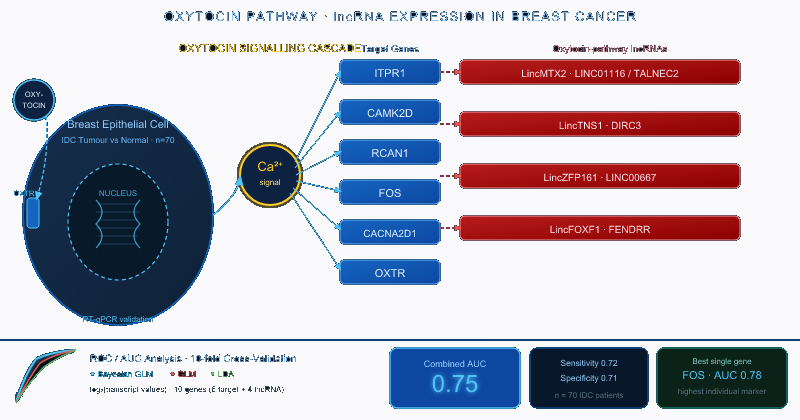
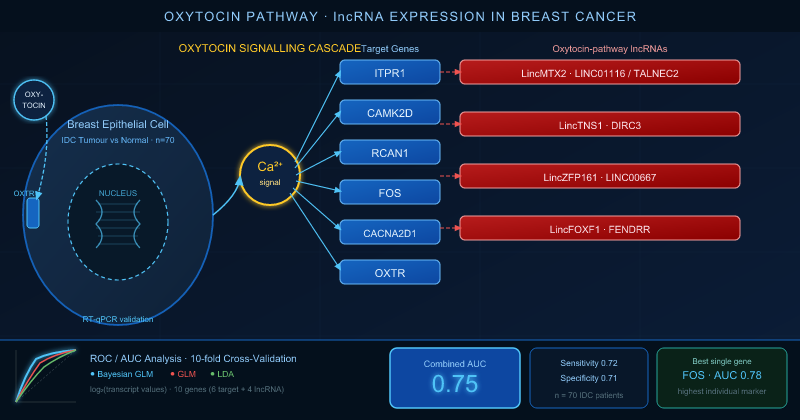
Revert oxytocin card to previous version (dark bg, object-fit cover)

diff --git a/index.html b/index.html
@@ -237,7 +237,7 @@
             </article>
 
             <article class="card portfolio-card" data-category="bioinformatics">
-              <img class="portfolio-image-diagram" src="projects/img/oxytocin-lncrna.png"
+              <img class="portfolio-image" src="projects/img/oxytocin-lncrna.png"
                    alt="Oxytocin signalling pathway lncRNA expression — breast cancer study diagram" />
               <p class="portfolio-tag">Bioinformatics</p>
               <h3>Oxytocin lncRNA — Breast Cancer Diagnostics</h3>